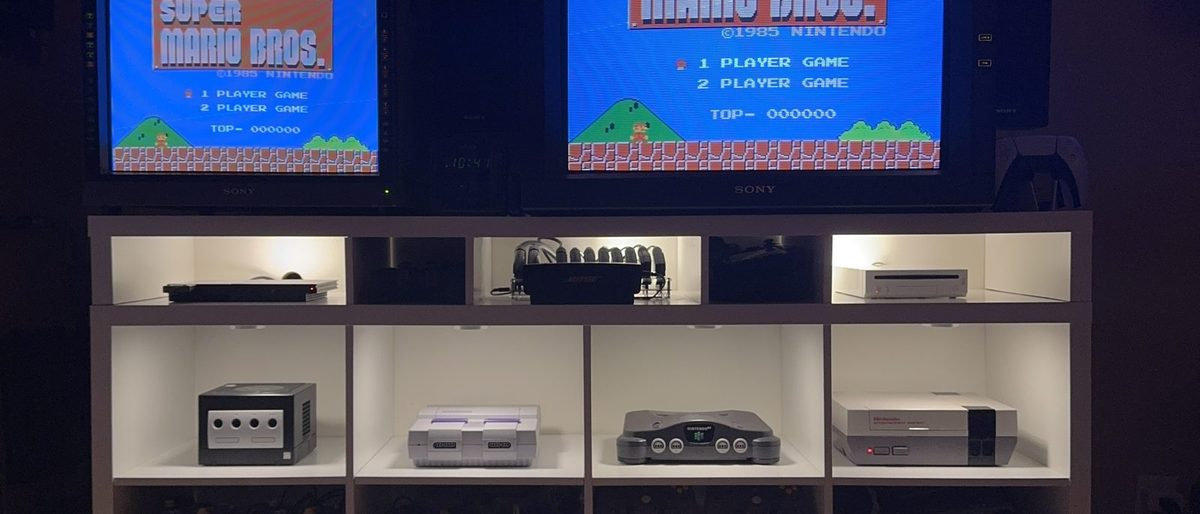
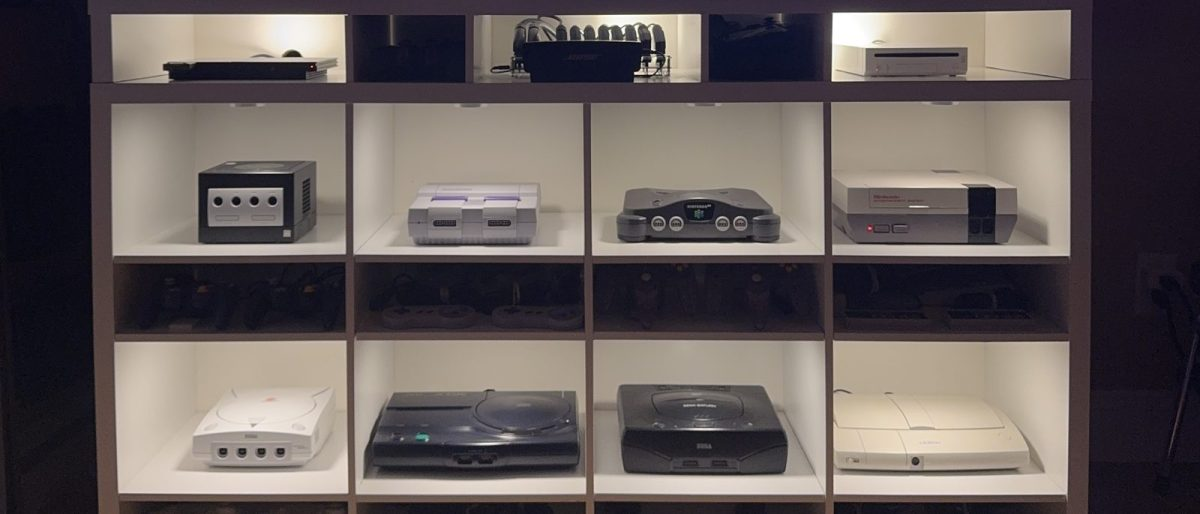
Re-cut the consoles and monitor-fleet step thumbs to David's framing
David: the consoles thumb 'should cut the CRTs out completely and show the 3rd
row of consoles, so all 3 rows of consoles are visible'; on the monitor fleet
cover, 'crop out the very top of the CRT to get more of the picture in the
frame.'

step-consoles.jpg  <- console-shelf-night.jpg, y 652-1337 (42.0%-86.1%), full
width. The two Sony CRTs are gone entirely and the band now holds all three
console rows: the slim top row, the GameCube/SNES/N64/NES row, and the
Dreamcast/Genesis/Saturn/PS1 row that was cut off before.

step-monitors.jpg  <- bvm-a14f5u-lit.jpg, y 290-975 (24.0%-80.8%), full width.
The old crop was y 164-849, which spent its top third on the Multiformat bezel
and the 01 readout. Dropping to 290 clears the top casing and puts that height
back into the picture; the side control panels stay, so it still reads as a
broadcast monitor rather than a screenshot.

Both 1200x514 at q82, per the step/story-thumb convention. Same filenames, so
index.html carries ?v=2 on each -- media/* is behind s-maxage=86400.

Two intermediate crops were built and rejected for each: on the consoles, later
start points clipped the top row's ceiling and the bottom row's base; on the
monitor, y 240 still showed the whole bezel and y 340 started eating the picture
itself.

diff --git a/index.html b/index.html
@@ -195,13 +195,13 @@ document.addEventListener('DOMContentLoaded', function(){
         <p>The garage arcade with four uprights and the pinball row, plus the inside game room with the candy cab and cocktail — six cabinets and four pins in all.</p>
       </a>
       <a class="card linked" href="consoles.html">
-        <img class="cthumb" src="media/step-thumbs/step-consoles.jpg" alt="" loading="lazy" decoding="async" width="1200" height="514">
+        <img class="cthumb" src="media/step-thumbs/step-consoles.jpg?v=2" alt="" loading="lazy" decoding="async" width="1200" height="514">
         <div class="sub">The Consoles</div>
         <h3>Nintendo · Sega · NEC · Sony</h3>
         <p>From front-loader NES to the PC Engine Duo-R and Turbo Express — the home hardware that feeds the CRTs, much of it RGB-modded or restored.</p>
       </a>
       <a class="card linked" href="monitors.html">
-        <img class="cthumb" src="media/step-thumbs/step-monitors.jpg" alt="" loading="lazy" decoding="async" width="1200" height="514">
+        <img class="cthumb" src="media/step-thumbs/step-monitors.jpg?v=2" alt="" loading="lazy" decoding="async" width="1200" height="514">
         <div class="sub">The Monitor Fleet</div>
         <h3>Sony PVM · BVM · LMD</h3>
         <p>A working museum of Sony professional video — fourteen units across nine models, documented in the Trinitron Fleet magazine.</p>
